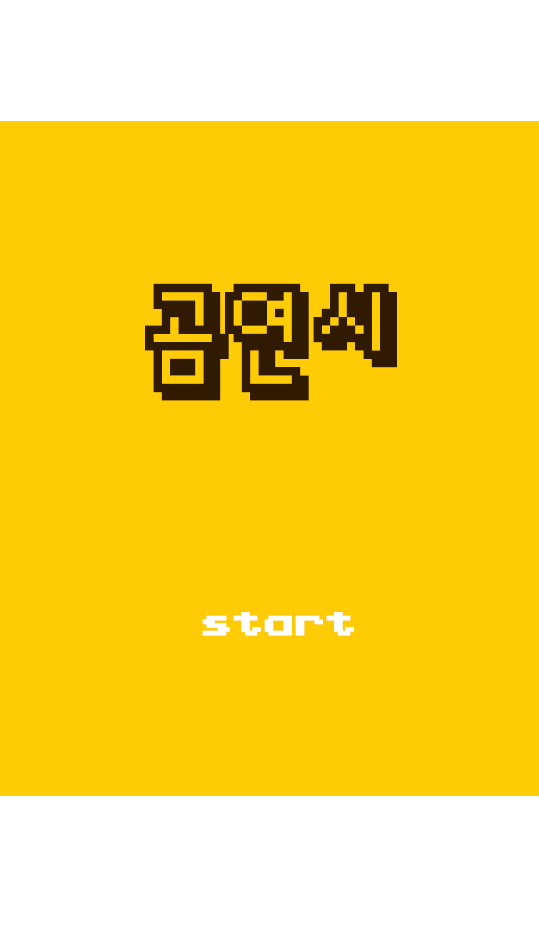
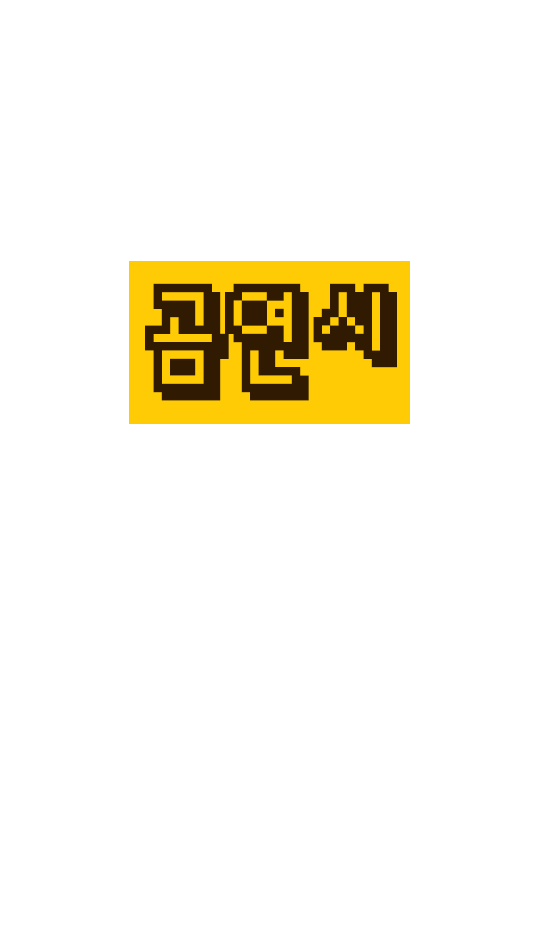
첫화면 만듬

diff --git a/app/kumagotchi.js b/app/kumagotchi.js
@@ -1,17 +1,23 @@
 const React = require('react');
 const { render } = require('react-dom');
 const { Router, Route, Link, hashHistory } = require('react-router');
+const { screen } = require('./option.json');
+
+// Change inner size of the window to fit screen
+window.resizeTo(
+  window.outerWidth  - window.innerWidth  + screen.width  * screen.zoom,
+  window.outerHeight - window.innerHeight + screen.height * screen.zoom
+);
 
 const Front = _ => (
   <div id="front">
-    <Link to="/main"><img className="blink" src="res/2.png"/></Link>
+    <Link to="/main"><img className="blink" src="res/start_blink.png"/></Link>
   </div>
 );
 
 const Main = _ => (
   <div id="main">
-    <h1>Hello, world!</h1>
-    <p>ㅇㅅㅇ)/</p>
+    <img src="res/bear-basic.png"/>
   </div>
 );
 

diff --git a/app/res/style.css b/app/res/style.css
@@ -2,6 +2,7 @@ body { margin: 0; }
 img {
   max-width: 100%;
   max-height: 100%;
+  display: block;
 }
 
 .blink { animation: blinker 0.8s step-start infinite; }
@@ -10,13 +11,22 @@ img {
 #target {
   width: 100vw;
   height: 100vh;
+  background: url('start.png'), #ffce00;
+  background-size: contain;
 }
 
 #front {
-  background: url('start.png');
+  background: url('start_button.png');
   background-size: contain;
 }
 
 #main {
-  text-align: center;
+  background:
+    url('button1.png'),
+    url('button2.png'),
+    url('button3.png'),
+    url('button4.png'),
+    url('bkground.png'),
+    black;
+  background-size: contain;
 }

diff --git a/app/index.js b/app/index.js
@@ -1,8 +1,12 @@
 const { app, BrowserWindow } = require('electron');
+const { screen } = require('./option.json');
 
 let win;
 app.once('ready', _ => {
-  win = new BrowserWindow({ width: 404, height: 695 });
+  const width  = (screen.width  * screen.zoom +  0)|0;
+  const height = (screen.height * screen.zoom + 22)|0;
+
+  win = new BrowserWindow({ width, height });
   win.loadURL(`file://${__dirname}/index.html`);
 });
 
